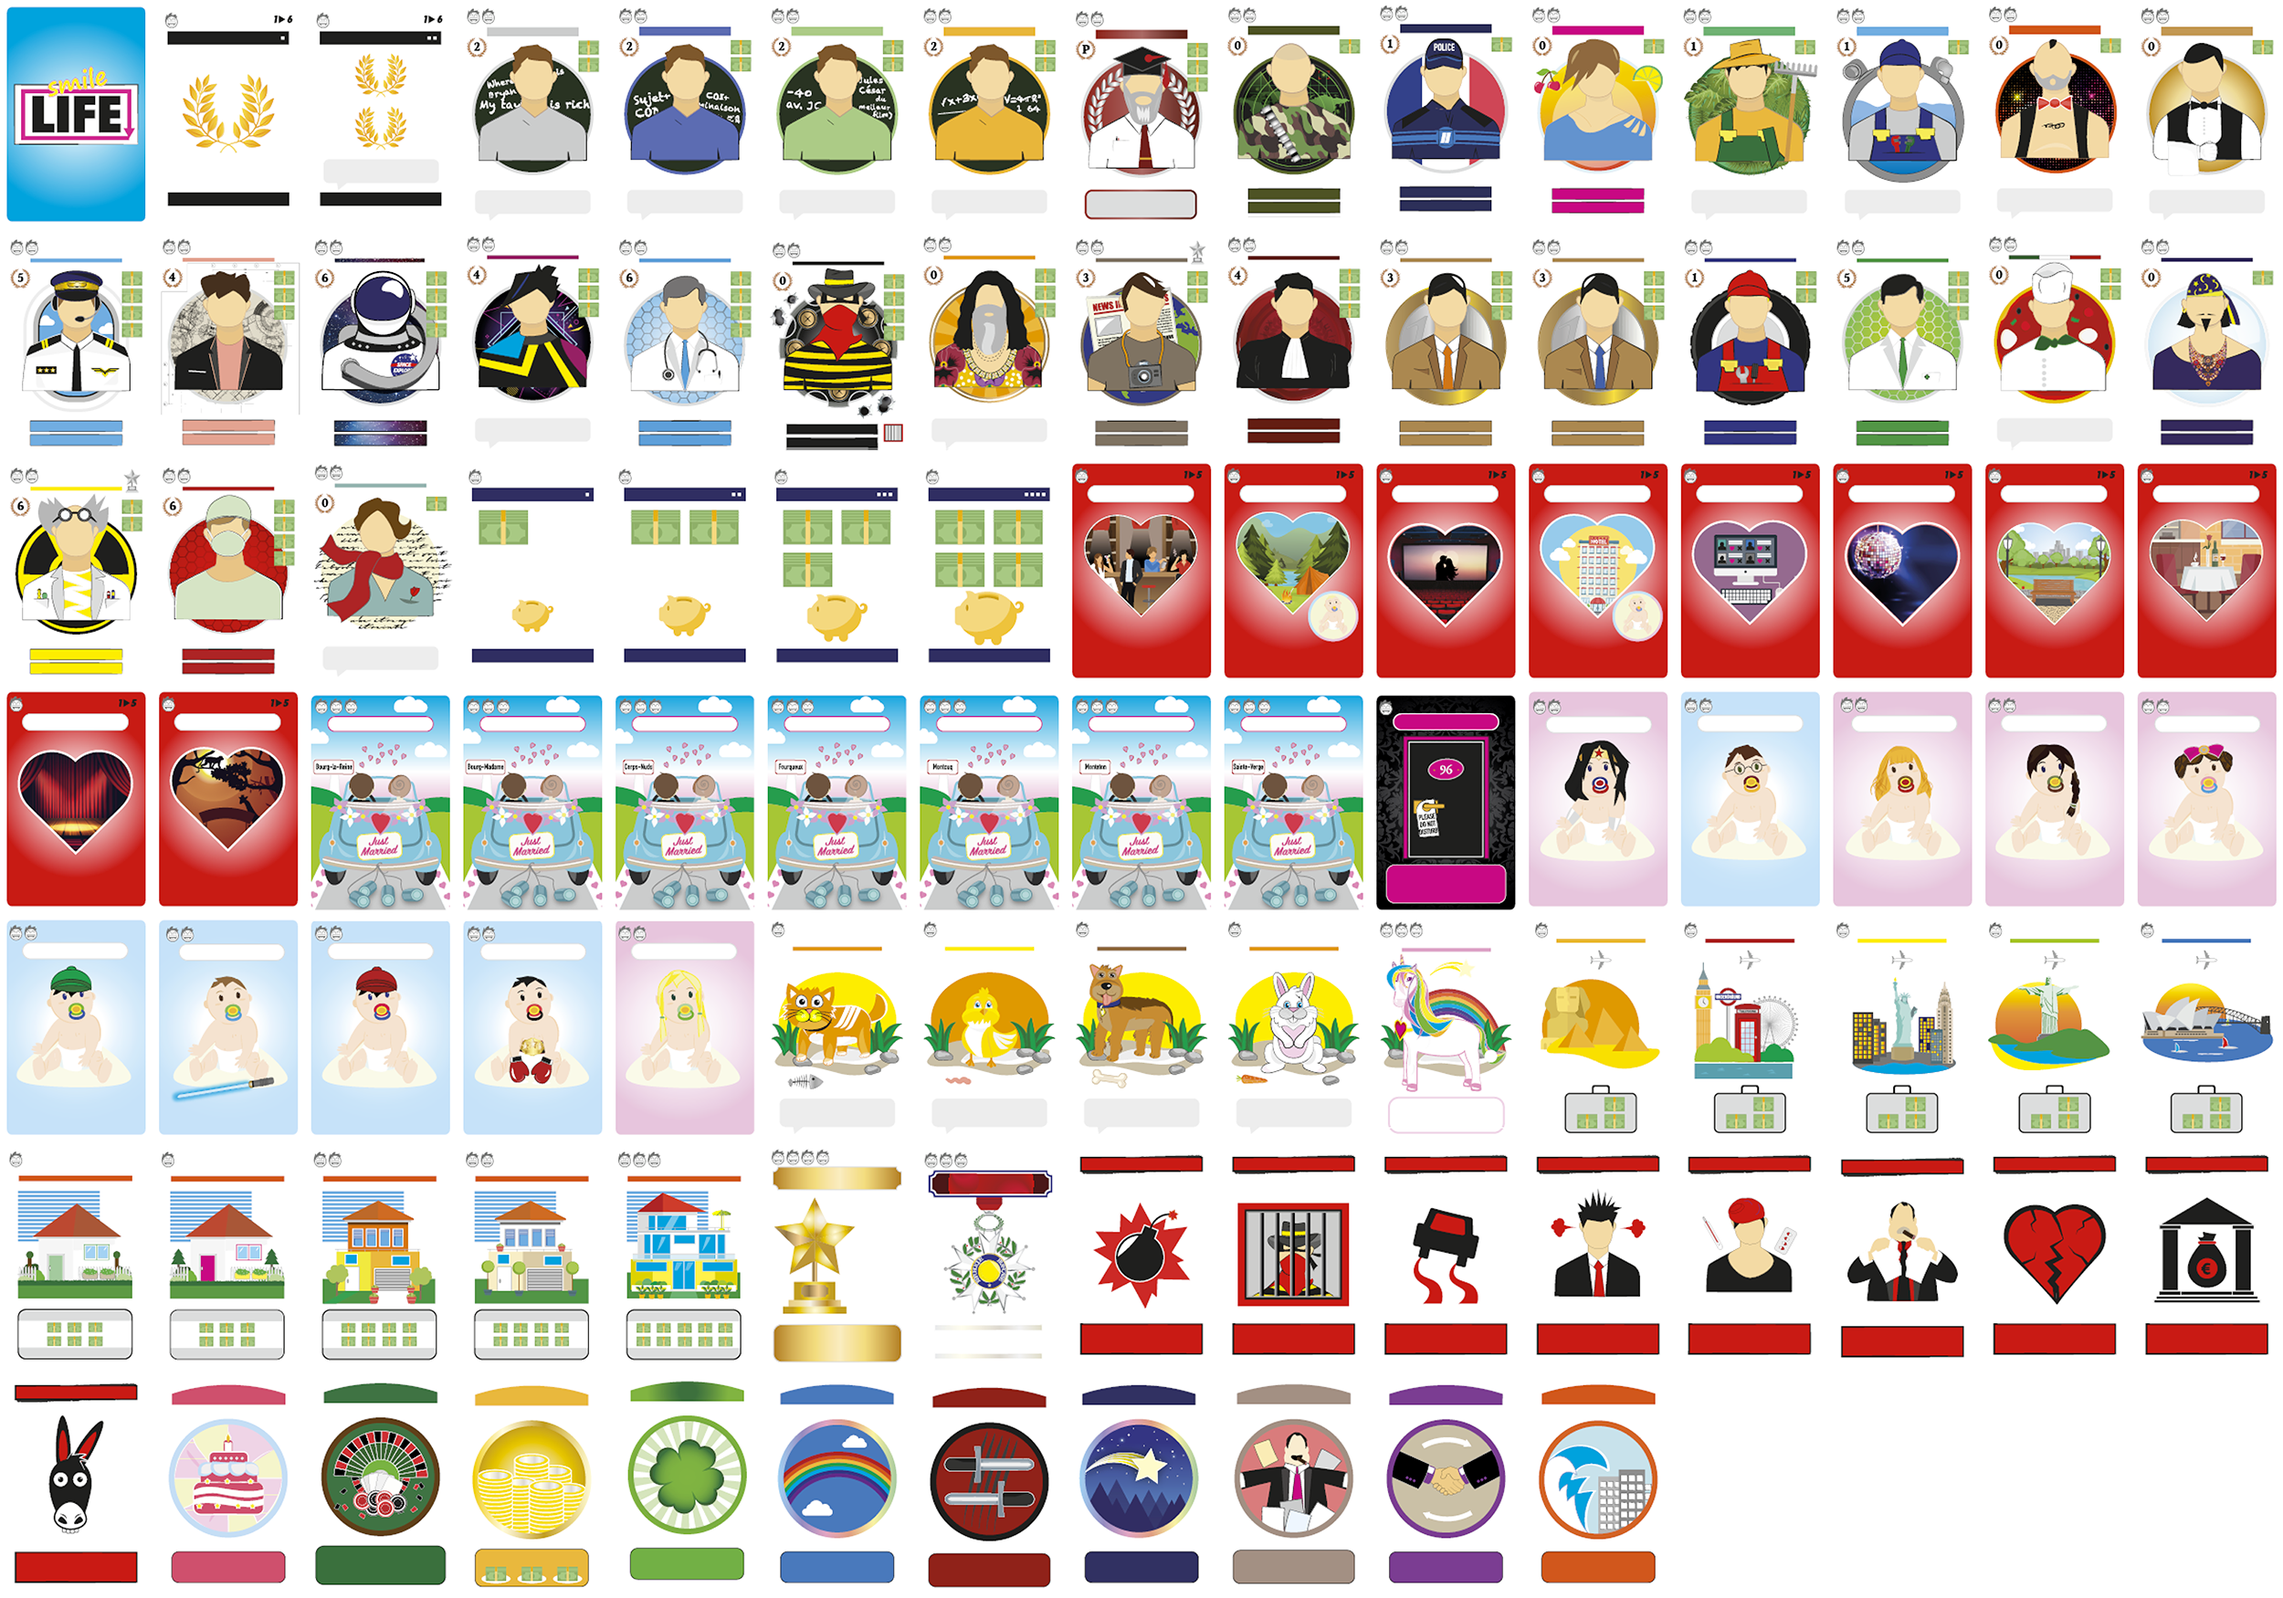
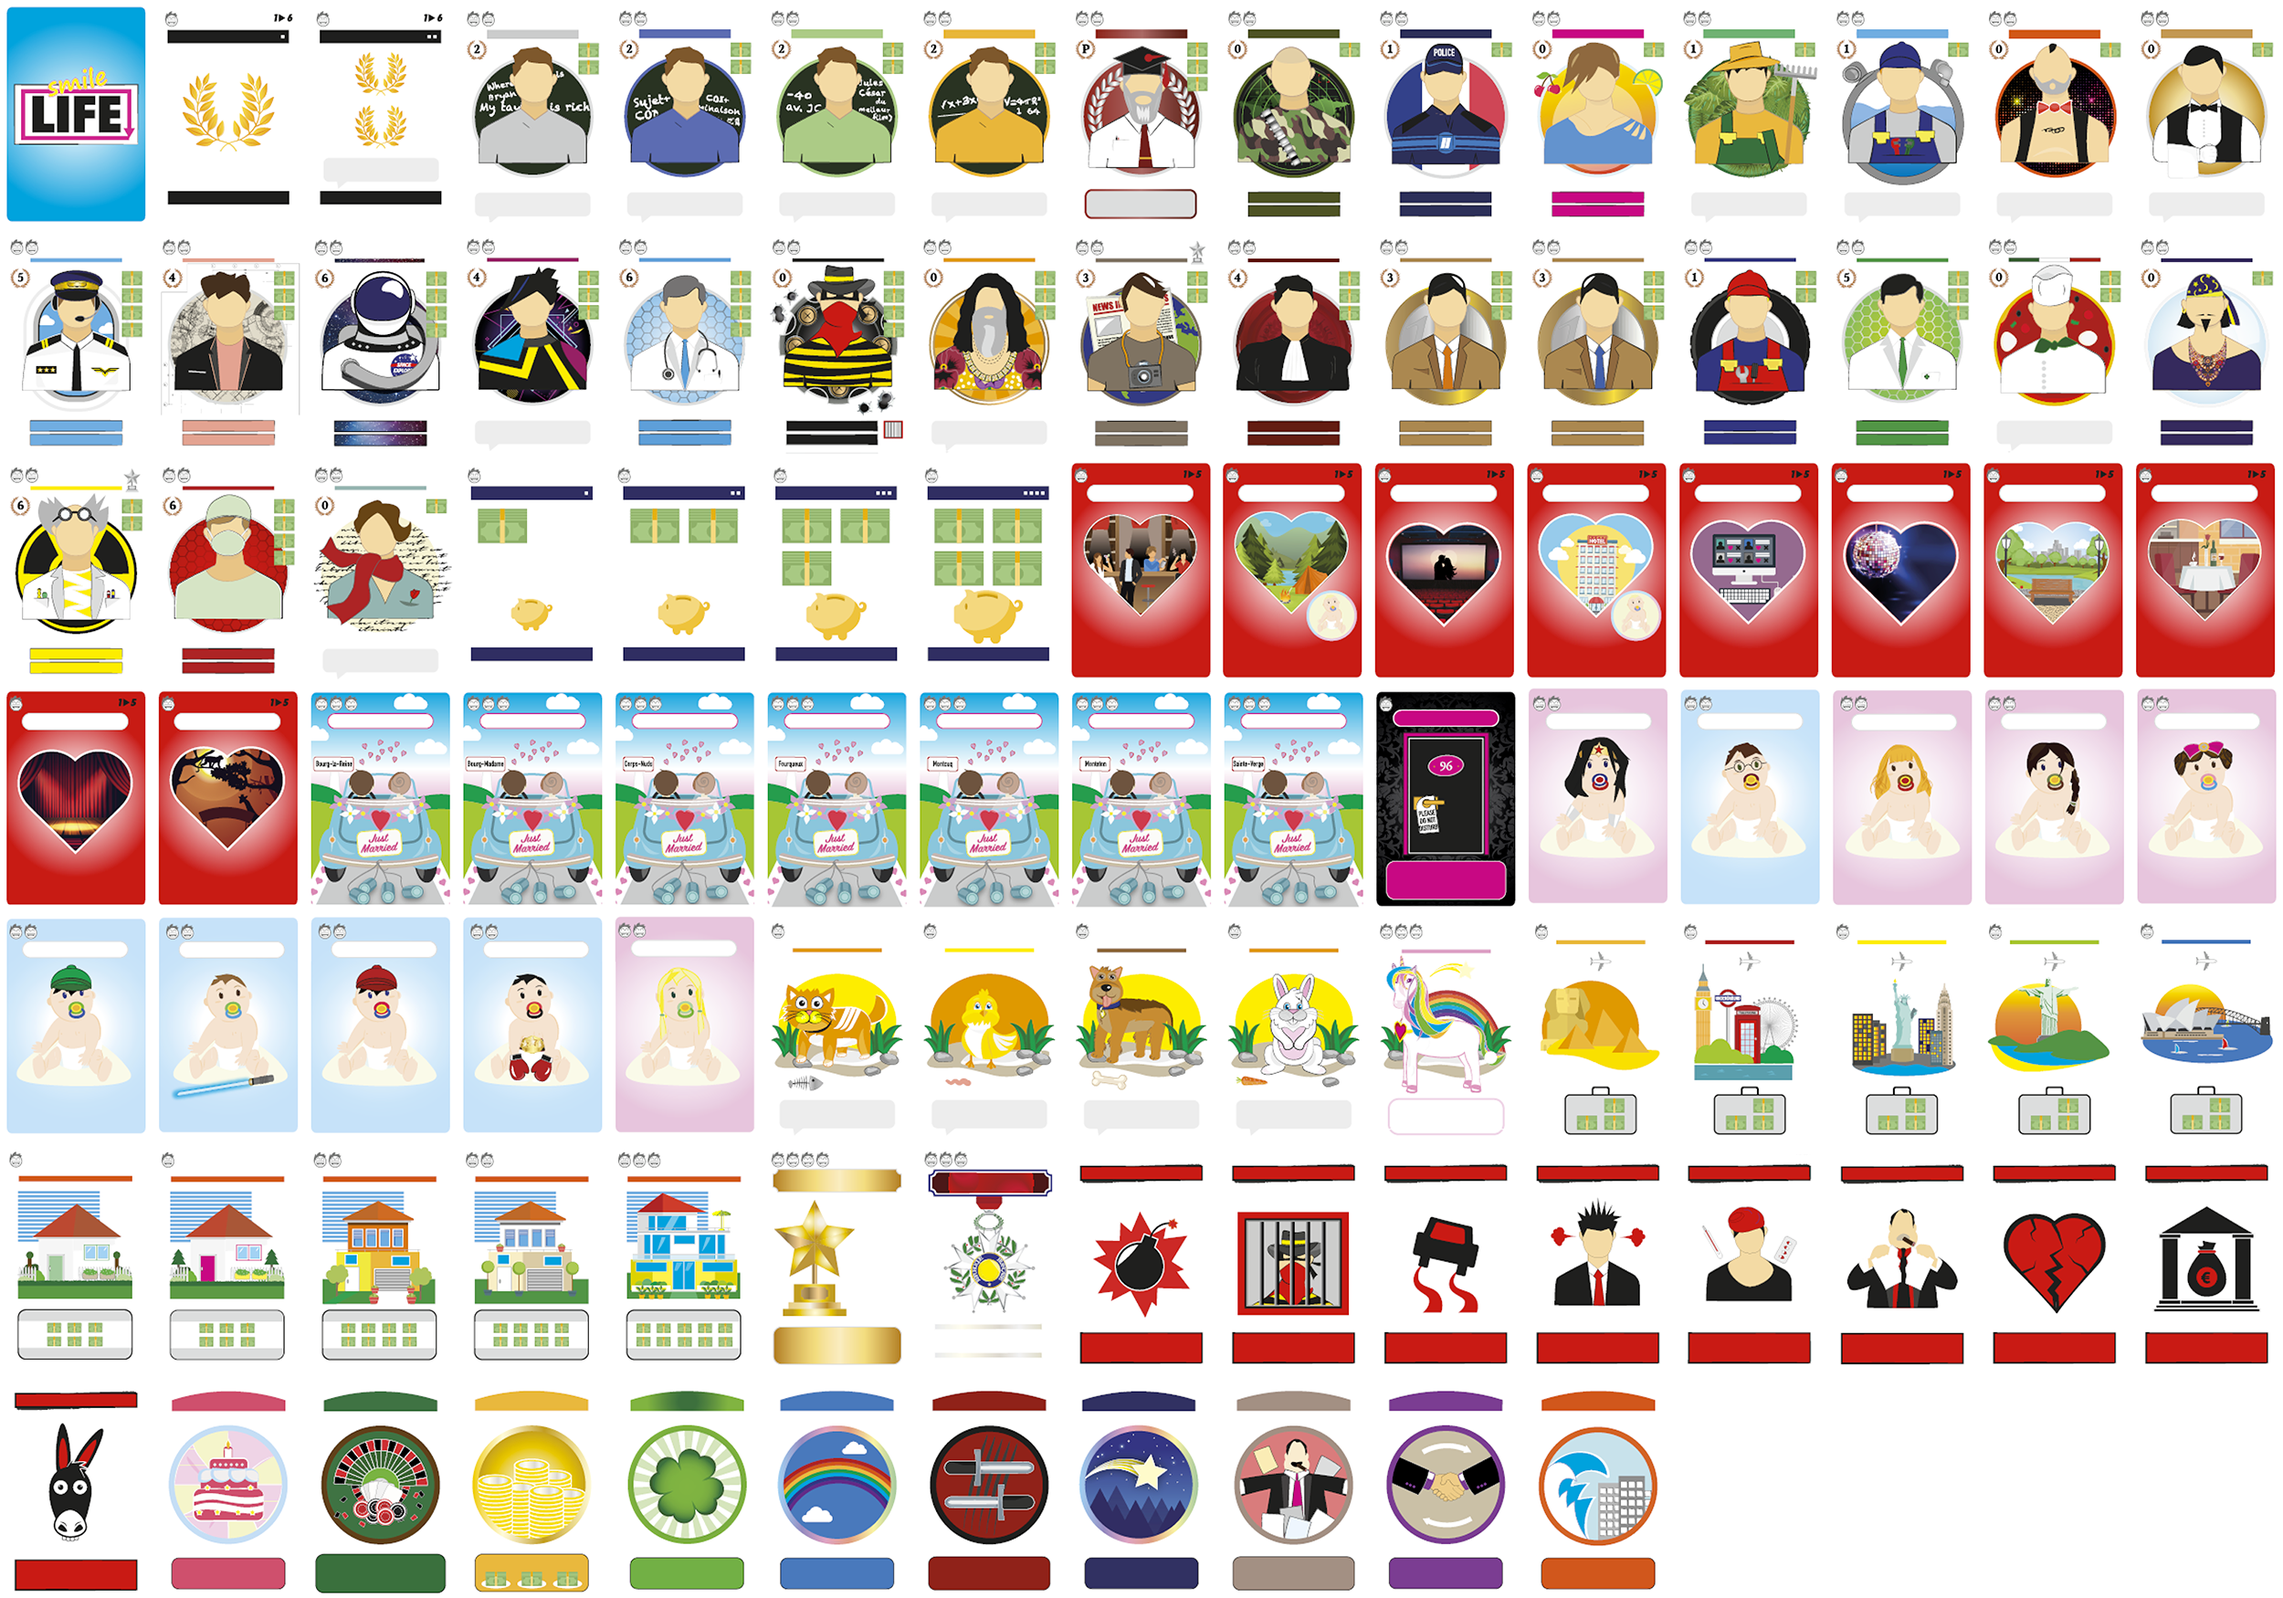
[WIP][sc-256] New Alignement V1

diff --git a/modules/js/Game/DisplayCardTrait.js b/modules/js/Game/DisplayCardTrait.js
@@ -168,7 +168,7 @@ define([
                         height: ` + (20 * size.ratio) + `px;
                     }
                     .card_studies .card_title{
-                        margin-top: ` + (66 * size.ratio) + `px;
+                        margin-top: ` + (56 * size.ratio) + `px;
                     }
                     .card_studies .card_text1{
                         height: ` + (34 * size.ratio) + `px;
